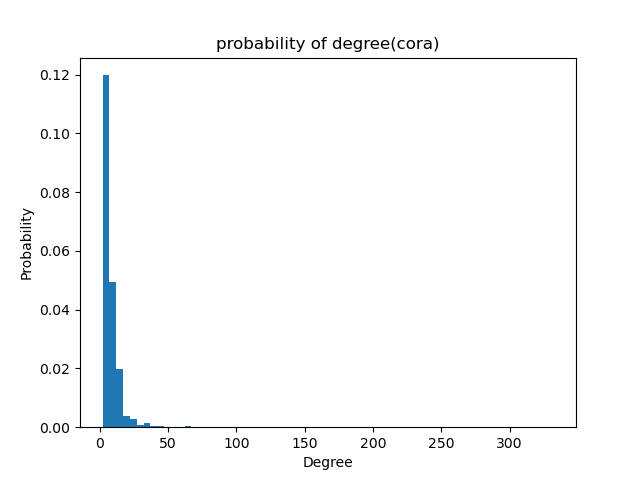
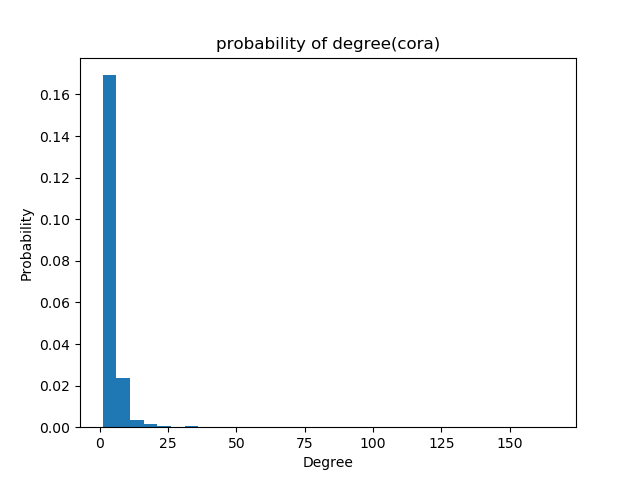
Update DatasetAnalysis.py
添加计算节点聚集系数，修改之前内容——“2.网络数据分析”部分完成

diff --git a/src/DatasetAnalysis.py b/src/DatasetAnalysis.py
@@ -1,17 +1,83 @@
 import torch
 from DatasetProcess import CoraDataset, ChameleonDataset, ActorDataset
-import dgl
 import numpy as np
-from dgl.data import DGLDataset
 import matplotlib.pyplot as plt
 
+from dgl.data import DGLDataset
+# import torch_geometric
+import dgl
+import networkx as nx
+from dgl.data import DGLDataset
+import scipy.sparse as sp
+from torch.utils.data import DataLoader
+import pickle
+
+import time
+
+
+edge_list = []
+
+
+def read_txt_net(file_path=""):
+    neighbor = {}
+    with open(file_path, "r") as f:
+        for line in f.readlines():
+            n1, n2 = list(map(int, line.strip().split(" ")[:2]))
+            if n1 not in neighbor:
+                neighbor[n1] = [n2]
+            elif n2 not in neighbor[n1]:
+                neighbor[n1].append(n2)
+    return neighbor
+
+
+# 求平均聚集系数
+def get_average_CE(neighbor):
+    ce_list = []
+
+    for key in neighbor:
+        node_set = set()
+        edge_set = set()
+        for node in neighbor[key]:
+            node_set.add(node)
+        for node in node_set:
+            for neighborNode in neighbor[node]:
+                if neighborNode in node_set:
+                    edge_set.add((node, neighborNode))
+        neighborNodeNum = len(node_set)
+        neighborEdgeNum = len(edge_set)
+
+        ceNum = 0
+        if neighborNodeNum > 1:
+            ceNum = ceNum + 2 * neighborEdgeNum / ((neighborNodeNum-1) * neighborNodeNum)
+        # print(ceNum)
+        ce_list.append(ceNum)
+        node_set.clear()
+        edge_set.clear()
+    # print(ce_list)
+    total_ce = 0
+    for ce in ce_list:
+        total_ce += ce
+    return total_ce / len(ce_list)
+
+
+# node number: actor 7600, chameleon 2277, cora 2707
+# edge number: actor 53318, chameleon 62742, cora 10556
+# 请注意edge_list.txt文件中无向边已由两条有向边的形式给出
+# 度数总和=edge number
 def DataAnalyse(dataset):
+
     graph = dataset[0]
     num_nodes = graph.num_nodes()
     in_degree = graph.in_degrees()
     out_degree = graph.out_degrees()
-    true_degree = in_degree + out_degree
-    avg_dgree = torch.sum(true_degree) / num_nodes
+    true_degree = in_degree
+    avg_degree = torch.sum(true_degree) / num_nodes
+    print('Average degree of ' + dataset.name + f' is {avg_degree}')
+
+    neighbor = read_txt_net('./dataset/' + dataset.name + '/edge_list.txt')
+    avg_ce = get_average_CE(neighbor)
+    print('Average Convergence Factor of ' + dataset.name + f' is {avg_ce}')
+
     min_degree = int(torch.min(true_degree))
     max_degree = int(torch.max(true_degree))
     histdata = []
@@ -23,7 +89,8 @@ def DataAnalyse(dataset):
     plt.hist(histdata, bins= np.arange(min_degree, max_degree, 5), density=True)
     plt.savefig('./result/' + dataset.name + '.png')
     
-    
 
 DataAnalyse(CoraDataset())
-    
+DataAnalyse(ChameleonDataset())
+DataAnalyse(ActorDataset())
+
